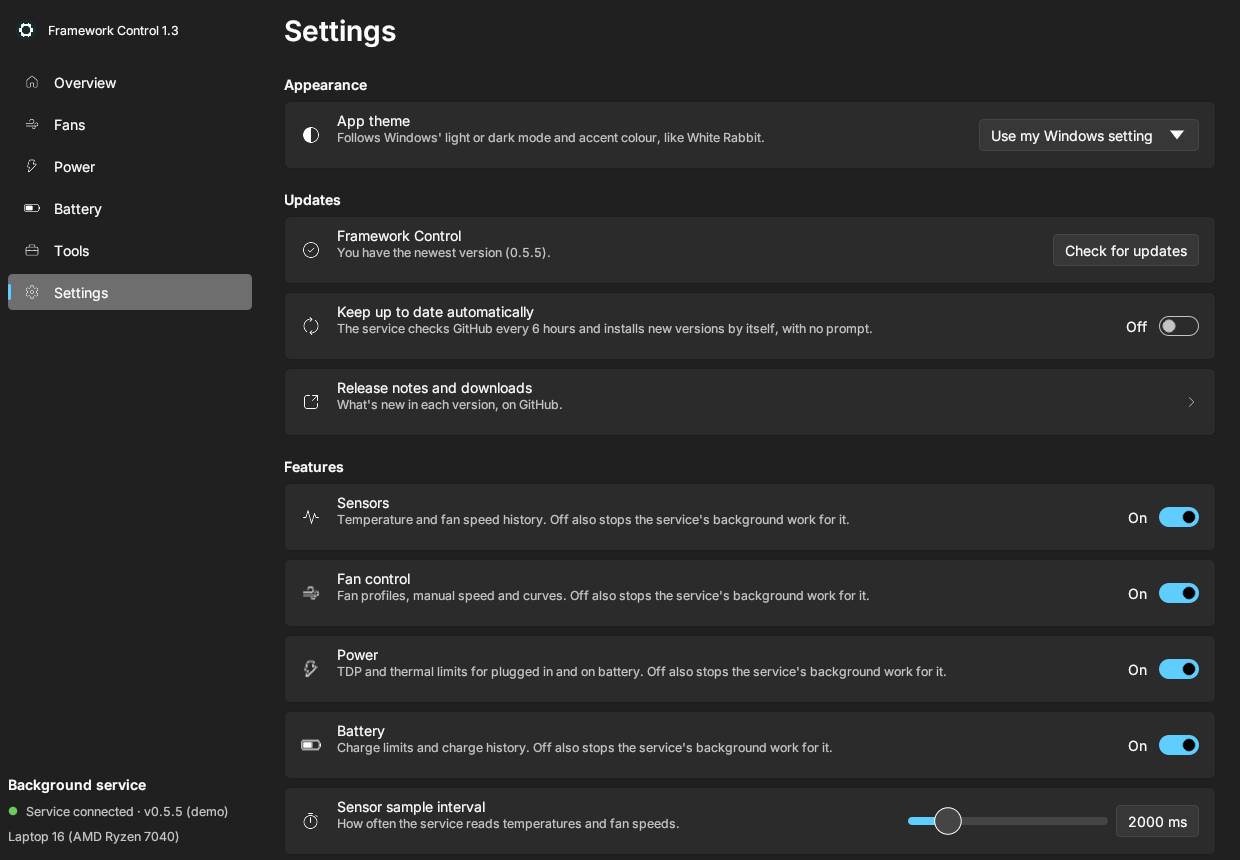
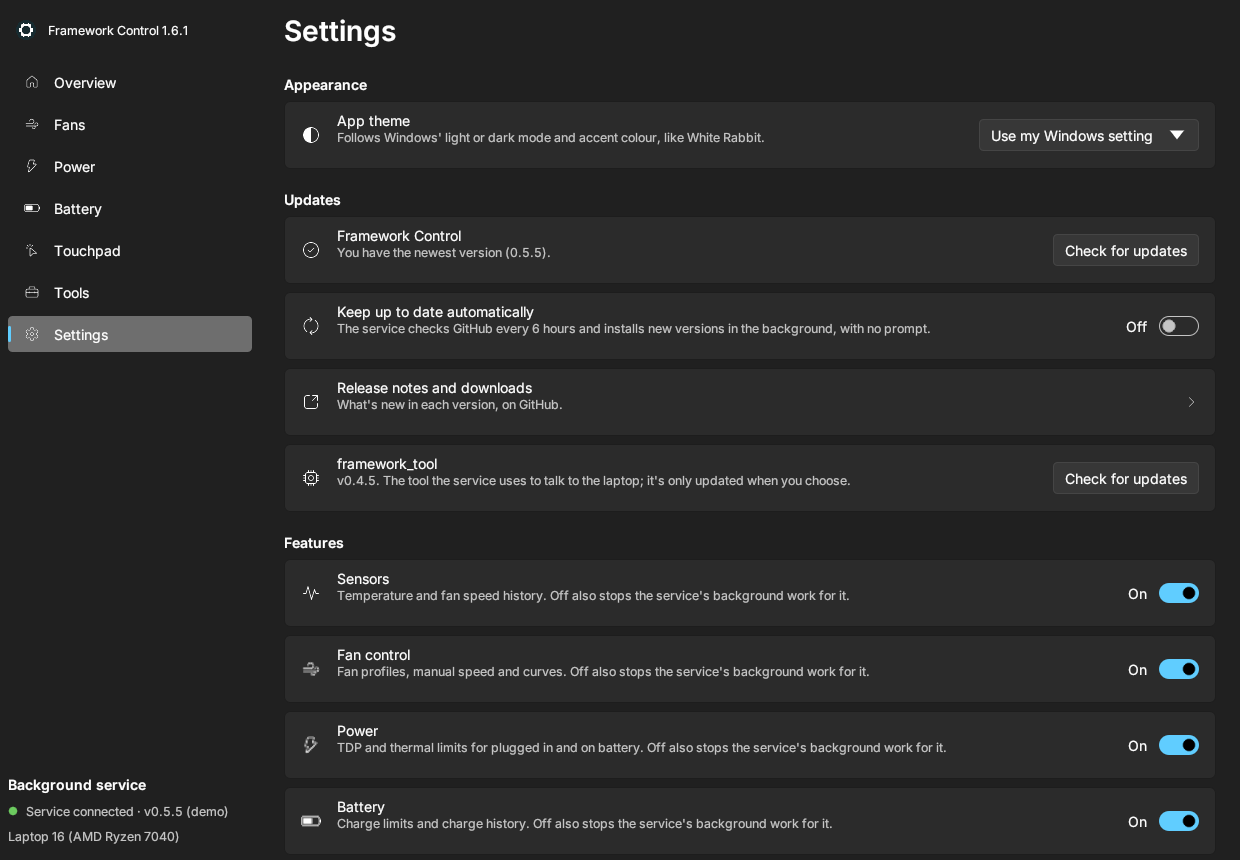
framework_tool: manual updates in the app instead of a GitHub check at every service start (1.6.2)
The service's 'Latest' setting looks up framework_tool's newest release on
GitHub every time it starts. The app now switches it once to the installed
version (no download; the service then stops checking), only fetches the
version list when the user clicks Check for updates, and offers
'Update to ...' when a newer release exists. The card moves to
Settings > Updates.

Claude-Session: https://claude.ai/code/session_01RrKeqgPQh8a3G9UMAwVSc1

diff --git a/native/src/pages/settings.rs b/native/src/pages/settings.rs
@@ -35,6 +35,8 @@ pub struct SettingsUi {
     tool_fetch: Option<Task<FrameworkToolVersions>>,
     tool_switch: Option<Task<()>>,
     tool_msg: Option<(String, bool)>,
+    /// framework_tool was switched off "Latest" (once per run).
+    pinned_tool: bool,
     logs_open: bool,
     logs: Option<Result<String, String>>,
     logs_job: Option<Task<String>>,
@@ -96,6 +98,7 @@ pub fn show(app: &mut App, ui: &mut Ui, snap: &Snapshot) {
 
     section(ui, "Updates");
     updates(app, ui, snap, &cfg);
+    framework_tool(app, ui, snap);
 
     section(ui, "Features");
     for (id, icon, label, help) in [
@@ -120,7 +123,6 @@ pub fn show(app: &mut App, ui: &mut Ui, snap: &Snapshot) {
     });
 
     section(ui, "Hardware");
-    framework_tool(app, ui, &cfg);
     if card(ui, Some(Icon::Logs), "Service logs", "The last 500 lines from the background service.", true, |_| {}).clicked() {
         app.settings.logs_open = true;
         fetch_logs(app, ui.ctx());
@@ -175,7 +177,7 @@ pub fn show(app: &mut App, ui: &mut Ui, snap: &Snapshot) {
     }
 }
 
-fn poll_jobs(app: &mut App, ctx: &egui::Context) {
+fn poll_jobs(app: &mut App, _ctx: &egui::Context) {
     let s = &mut app.settings;
     if let Some(r) = finished(&mut s.update_job) {
         s.update_msg = Some(match r {
@@ -205,7 +207,7 @@ fn poll_jobs(app: &mut App, ctx: &egui::Context) {
     }
     if let Some(r) = finished(&mut s.tool_switch) {
         s.tool_msg = Some(match r {
-            Ok(()) => ("Switched. The service is restarting framework_tool.".into(), false),
+            Ok(()) => ("Done. The service is restarting framework_tool.".into(), false),
             Err(e) => (e, true),
         });
         s.tool_versions = None;
@@ -213,10 +215,6 @@ fn poll_jobs(app: &mut App, ctx: &egui::Context) {
     }
     if let Some(r) = finished(&mut s.logs_job) {
         s.logs = Some(r);
-    }
-    if s.tool_versions.is_none() && s.tool_fetch.is_none() && s.tool_switch.is_none() && s.tool_msg.is_none() {
-        let b = app.backend.clone();
-        s.tool_fetch = Some(Task::spawn(ctx, move || b.framework_tool_versions()));
     }
 }
 
@@ -249,6 +247,7 @@ fn updates(app: &mut App, ui: &mut Ui, snap: &Snapshot, cfg: &Config) {
                     });
                 } else if button(ui, "Check for updates").clicked() {
                     app.refresh();
+                    check_framework_tool(&mut app.settings, app.backend.clone(), ui.ctx());
                 }
             });
             let mut auto = cfg.updates.auto_install;
@@ -326,49 +325,102 @@ fn unfinished_update(app: &mut App, ui: &mut Ui) {
     }
 }
 
-fn framework_tool(app: &mut App, ui: &mut Ui, cfg: &Config) {
-    let s = &mut app.settings;
-    let busy = s.tool_switch.is_some();
-    let mut choice: Option<Option<String>> = None;
-    let mut help = "The tool the service uses to talk to the laptop. Picking a version installs it.".to_string();
-    if let Some(v) = &s.tool_versions {
-        let current_tag = v.current_version.as_ref().map(|c| if c.starts_with('v') { c.clone() } else { format!("v{c}") });
-        if cfg.framework_tool.latest && v.latest_tag.is_some() && current_tag.is_some() && v.latest_tag != current_tag {
-            help = format!("Latest is chosen but {} is running.", current_tag.clone().unwrap_or_default());
-        }
+/// Ask GitHub (through the service) which framework_tool versions exist. Only on request.
+fn check_framework_tool(s: &mut SettingsUi, b: std::sync::Arc<dyn Backend>, ctx: &egui::Context) {
+    if s.tool_fetch.is_none() {
+        s.tool_msg = None;
+        s.tool_fetch = Some(Task::spawn(ctx, move || b.framework_tool_versions()));
     }
-    card(ui, Some(Icon::Board), "framework_tool version", &help, false, |ui| match &s.tool_versions {
-        None => {
+}
+
+/// The framework_tool version normalised as a tag ("v0.4.5").
+fn as_tag(v: &str) -> String {
+    if v.starts_with('v') { v.to_string() } else { format!("v{v}") }
+}
+
+/// framework_tool, the CLI the service uses to talk to the laptop. It's kept on a chosen version and only
+/// checked for updates when asked (see `pin_framework_tool`).
+fn framework_tool(app: &mut App, ui: &mut Ui, snap: &Snapshot) {
+    let backend = app.backend.clone();
+    let s = &mut app.settings;
+    let busy = s.tool_switch.is_some() || s.tool_fetch.is_some();
+    let installed = snap
+        .versions
+        .as_ref()
+        .and_then(|v| v.tool_version.clone())
+        .or_else(|| s.tool_versions.as_ref().and_then(|v| v.current_version.clone()))
+        .map(|v| as_tag(&v));
+    let latest = s.tool_versions.as_ref().and_then(|v| v.latest_tag.clone());
+    let newer = match (&latest, &installed) {
+        (Some(l), Some(i)) if is_newer(l, i) => Some(l.clone()),
+        _ => None,
+    };
+    let help = match (&installed, &s.tool_versions, &newer) {
+        (_, _, Some(l)) => format!("{l} is available (you have {}).", installed.clone().unwrap_or_else(|| "an unknown version".into())),
+        (Some(i), Some(_), None) => format!("{i}, the newest version."),
+        (Some(i), None, None) => format!("{i}. The tool the service uses to talk to the laptop; it's only updated when you choose."),
+        (None, _, None) => "The tool the service uses to talk to the laptop.".to_string(),
+    };
+    let mut choice: Option<String> = None;
+    let mut check = false;
+    card(ui, Some(Icon::Board), "framework_tool", &help, false, |ui| {
+        if busy {
             ui.spinner();
         }
-        Some(v) => {
-            let current_tag = v.current_version.as_ref().map(|c| if c.starts_with('v') { c.clone() } else { format!("v{c}") });
-            let latest_label = format!("Latest{}", v.latest_tag.as_ref().map(|t| format!(" ({t})")).unwrap_or_default());
-            let selected = if cfg.framework_tool.latest { latest_label.clone() } else { current_tag.clone().unwrap_or("Unknown".into()) };
-            if busy {
-                ui.spinner();
+        ui.add_enabled_ui(!busy, |ui| {
+            if let Some(l) = &newer {
+                if accent_button(ui, &format!("Update to {l}")).clicked() {
+                    choice = Some(l.clone());
+                }
             }
-            ui.add_enabled_ui(!busy, |ui| {
-                egui::ComboBox::from_id_salt("tool").selected_text(selected).width(200.0).show_ui(ui, |ui| {
-                    if ui.selectable_label(cfg.framework_tool.latest, &latest_label).clicked() {
-                        choice = Some(None);
-                    }
-                    for t in &v.available_tags {
-                        let sel = !cfg.framework_tool.latest && current_tag.as_deref() == Some(t);
-                        if ui.selectable_label(sel, t).clicked() {
-                            choice = Some(Some(t.clone()));
+            match &s.tool_versions {
+                // After a check: any listed version can be installed (e.g. to go back).
+                Some(v) if !v.available_tags.is_empty() => {
+                    let selected = installed.clone().unwrap_or_else(|| "Choose a version".into());
+                    egui::ComboBox::from_id_salt("tool").selected_text(selected).width(140.0).show_ui(ui, |ui| {
+                        for t in &v.available_tags {
+                            if ui.selectable_label(installed.as_deref() == Some(t.as_str()), t).clicked() && installed.as_deref() != Some(t.as_str()) {
+                                choice = Some(t.clone());
+                            }
                         }
+                    });
+                }
+                _ => {
+                    if button(ui, "Check for updates").clicked() {
+                        check = true;
                     }
-                });
-            });
-        }
+                }
+            }
+        });
     });
-    if let Some(c) = choice {
-        let b = app.backend.clone();
+    if check {
+        check_framework_tool(s, backend.clone(), ui.ctx());
+    }
+    if let Some(tag) = choice {
         s.tool_msg = None;
-        s.tool_switch = Some(Task::spawn(ui.ctx(), move || b.switch_framework_tool(c)));
+        s.tool_versions = None;
+        s.tool_switch = Some(Task::spawn(ui.ctx(), move || backend.switch_framework_tool(Some(tag))));
     }
     status_line(ui, &s.tool_msg);
+}
+
+/// The service's "Latest" setting looks up framework_tool's newest release on GitHub every time it starts.
+/// Updates are manual in this app instead, so switch it once to the installed version: nothing is
+/// downloaded, and the service stops checking.
+pub fn pin_framework_tool(app: &mut App, snap: &Snapshot) {
+    if app.settings.pinned_tool || app.source == "demo data" {
+        return;
+    }
+    let Some(cfg) = &snap.config else { return };
+    let Some(v) = snap.versions.as_ref().and_then(|v| v.tool_version.clone()) else { return };
+    app.settings.pinned_tool = true;
+    if cfg.framework_tool.latest {
+        let b = app.backend.clone();
+        let tag = as_tag(&v);
+        std::thread::spawn(move || {
+            let _ = b.switch_framework_tool(Some(tag));
+        });
+    }
 }
 
 fn fetch_logs(app: &mut App, ctx: &egui::Context) {

diff --git a/native/src/app.rs b/native/src/app.rs
@@ -245,6 +245,7 @@ impl eframe::App for App {
         let shared = self.shared.clone();
         let snap = shared.lock().unwrap();
         self.sync_drafts(&snap);
+        pages::settings::pin_framework_tool(self, &snap);
         let theme_pref = snap.config.as_ref().and_then(|c| c.ui.theme.clone()).unwrap_or_else(|| "system".into());
         crate::theme::apply(ctx, &theme_pref, &mut self.theme_state, &mut self.windows_look);
         // Follow changes to Windows' light/dark setting and accent colour.

diff --git a/native/CHANGELOG.md b/native/CHANGELOG.md
@@ -3,6 +3,19 @@
 Versions here are this fork's release line. The upstream service version the
 fork is synced to is recorded in `tools/parity/parity.toml`.
 
+## 1.6.2
+
+- `framework_tool` (the tool the service uses to talk to the laptop) is now
+  updated by hand, in **Settings → Updates**, instead of automatically.
+  - Before, the background service asked GitHub for the newest version every
+    time it started, and installed it. Framework Control now keeps
+    framework_tool on the version you have (switched once, nothing is
+    downloaded), so the service no longer contacts GitHub for it at startup.
+  - Opening Settings no longer asks GitHub for the version list either.
+  - **Check for updates** checks framework_tool's releases when you click it,
+    and offers **Update to …** when a newer one is out. After a check, any
+    listed version can be installed, for example to go back.
+
 ## 1.6.1
 
 - Fix: installing an update with a window ("Install update", or opening the

diff --git a/README.md b/README.md
@@ -85,7 +85,8 @@ isn't counted.</sub>
   Overview.
 - **Settings**: automatic updates, light or dark mode in your Windows accent
   colour (or follow Windows), turning features on or off (this also stops
-  their background work), `framework_tool` version switching, the
+  their background work), manual `framework_tool` updates (it's only
+  checked when you click **Check for updates**, never at startup), the
   service log viewer, and device info.
 
 ## Screenshots
